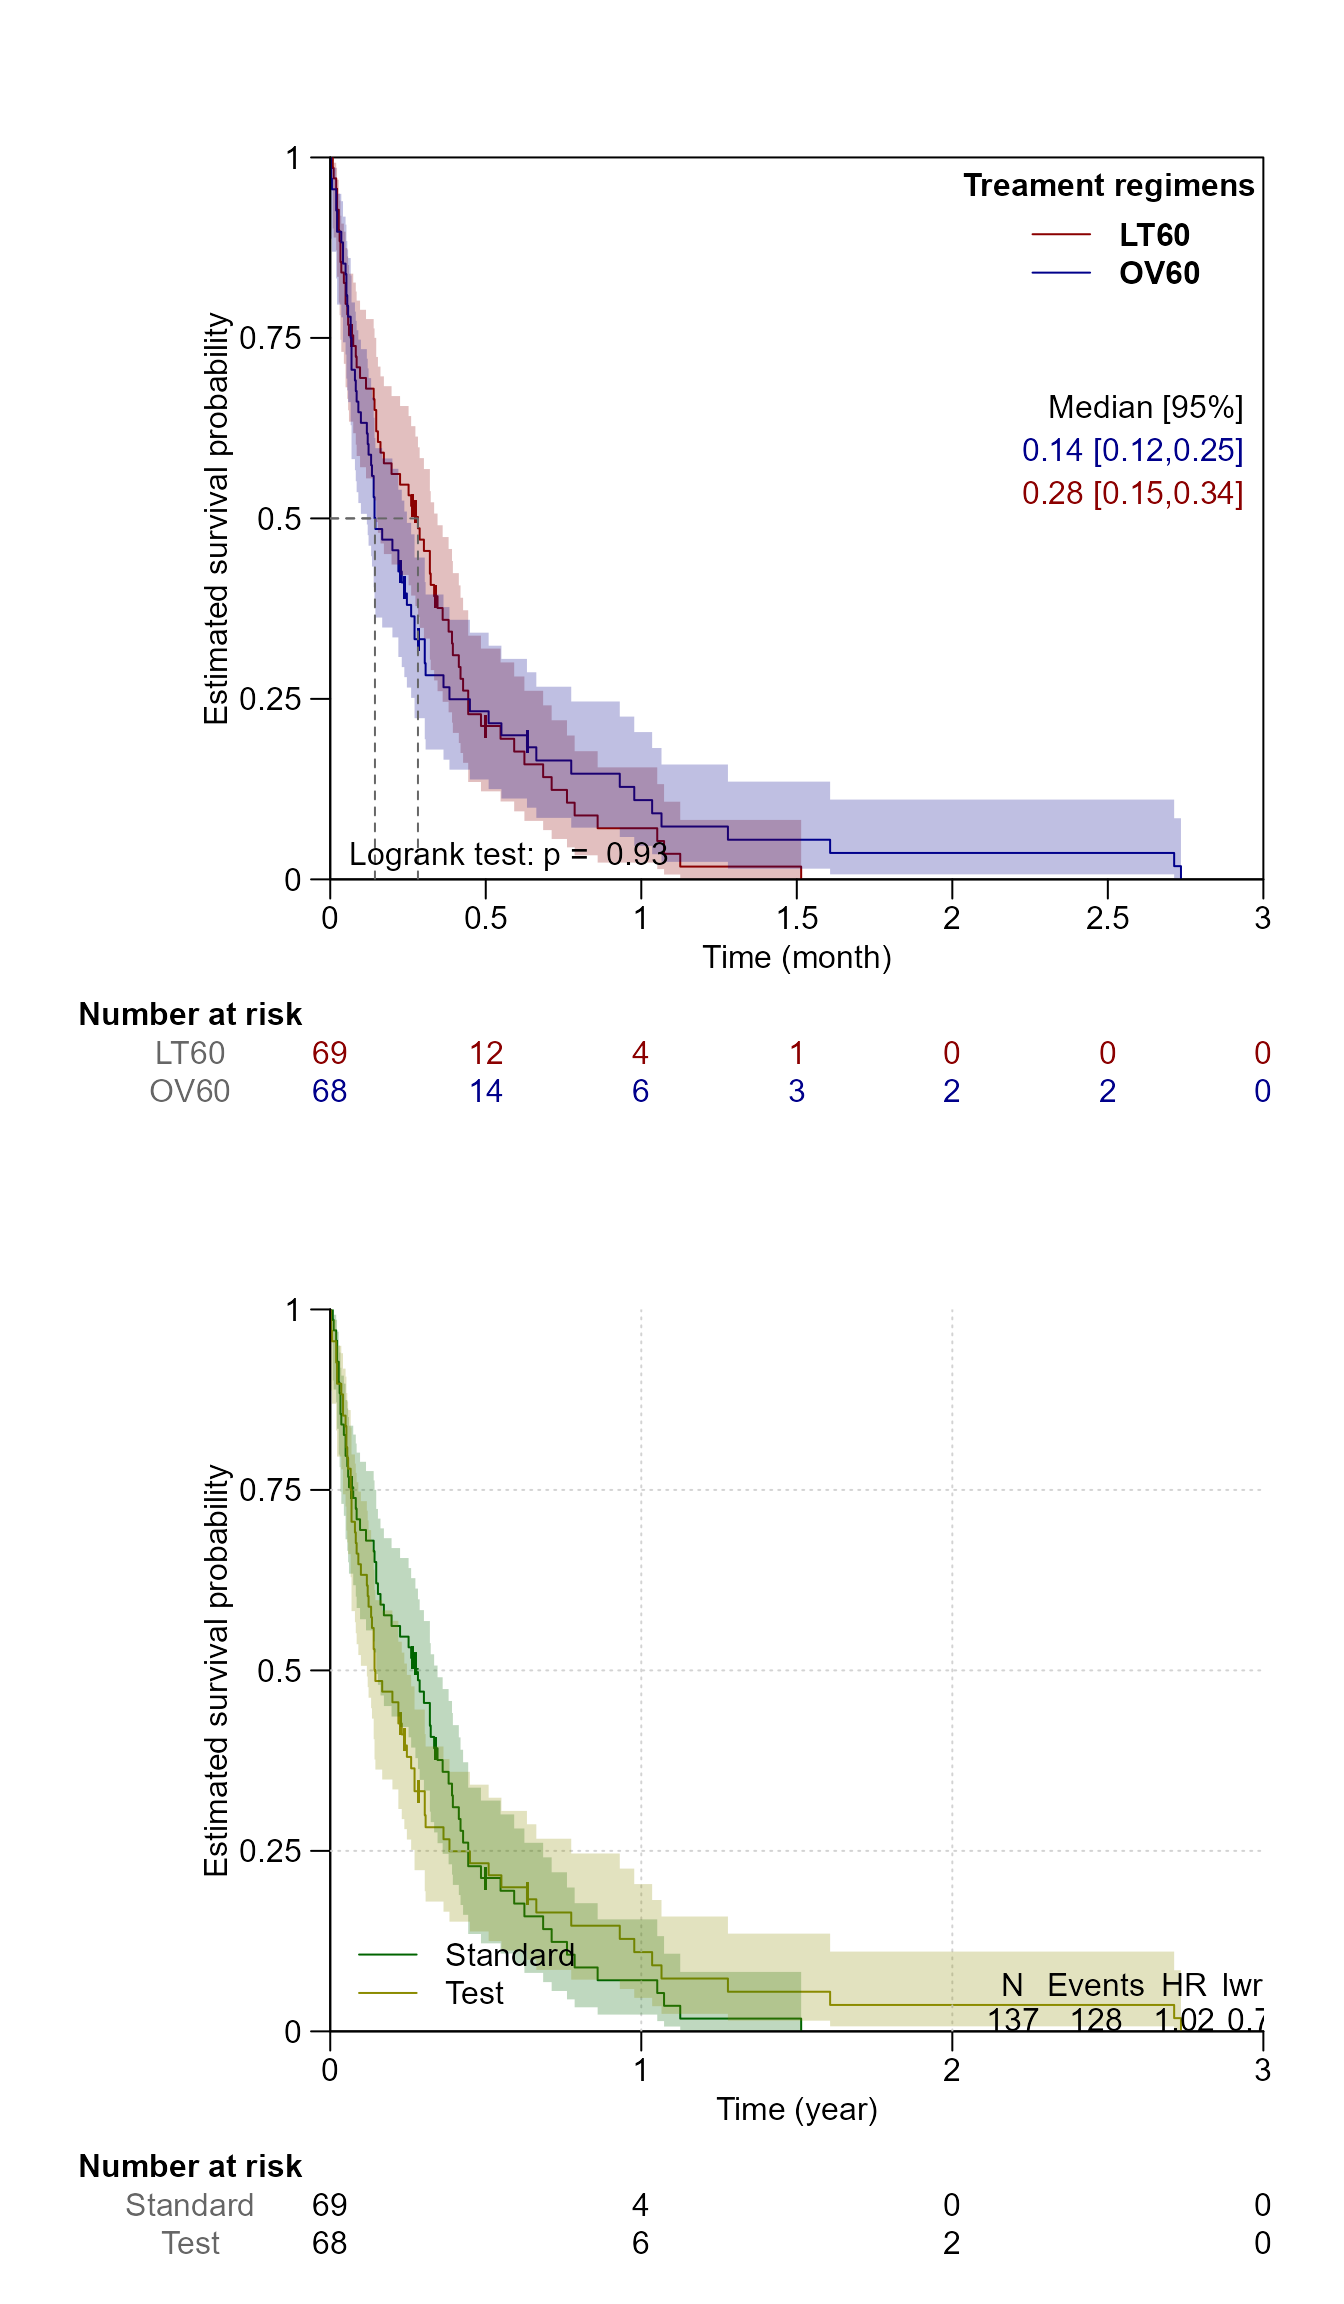
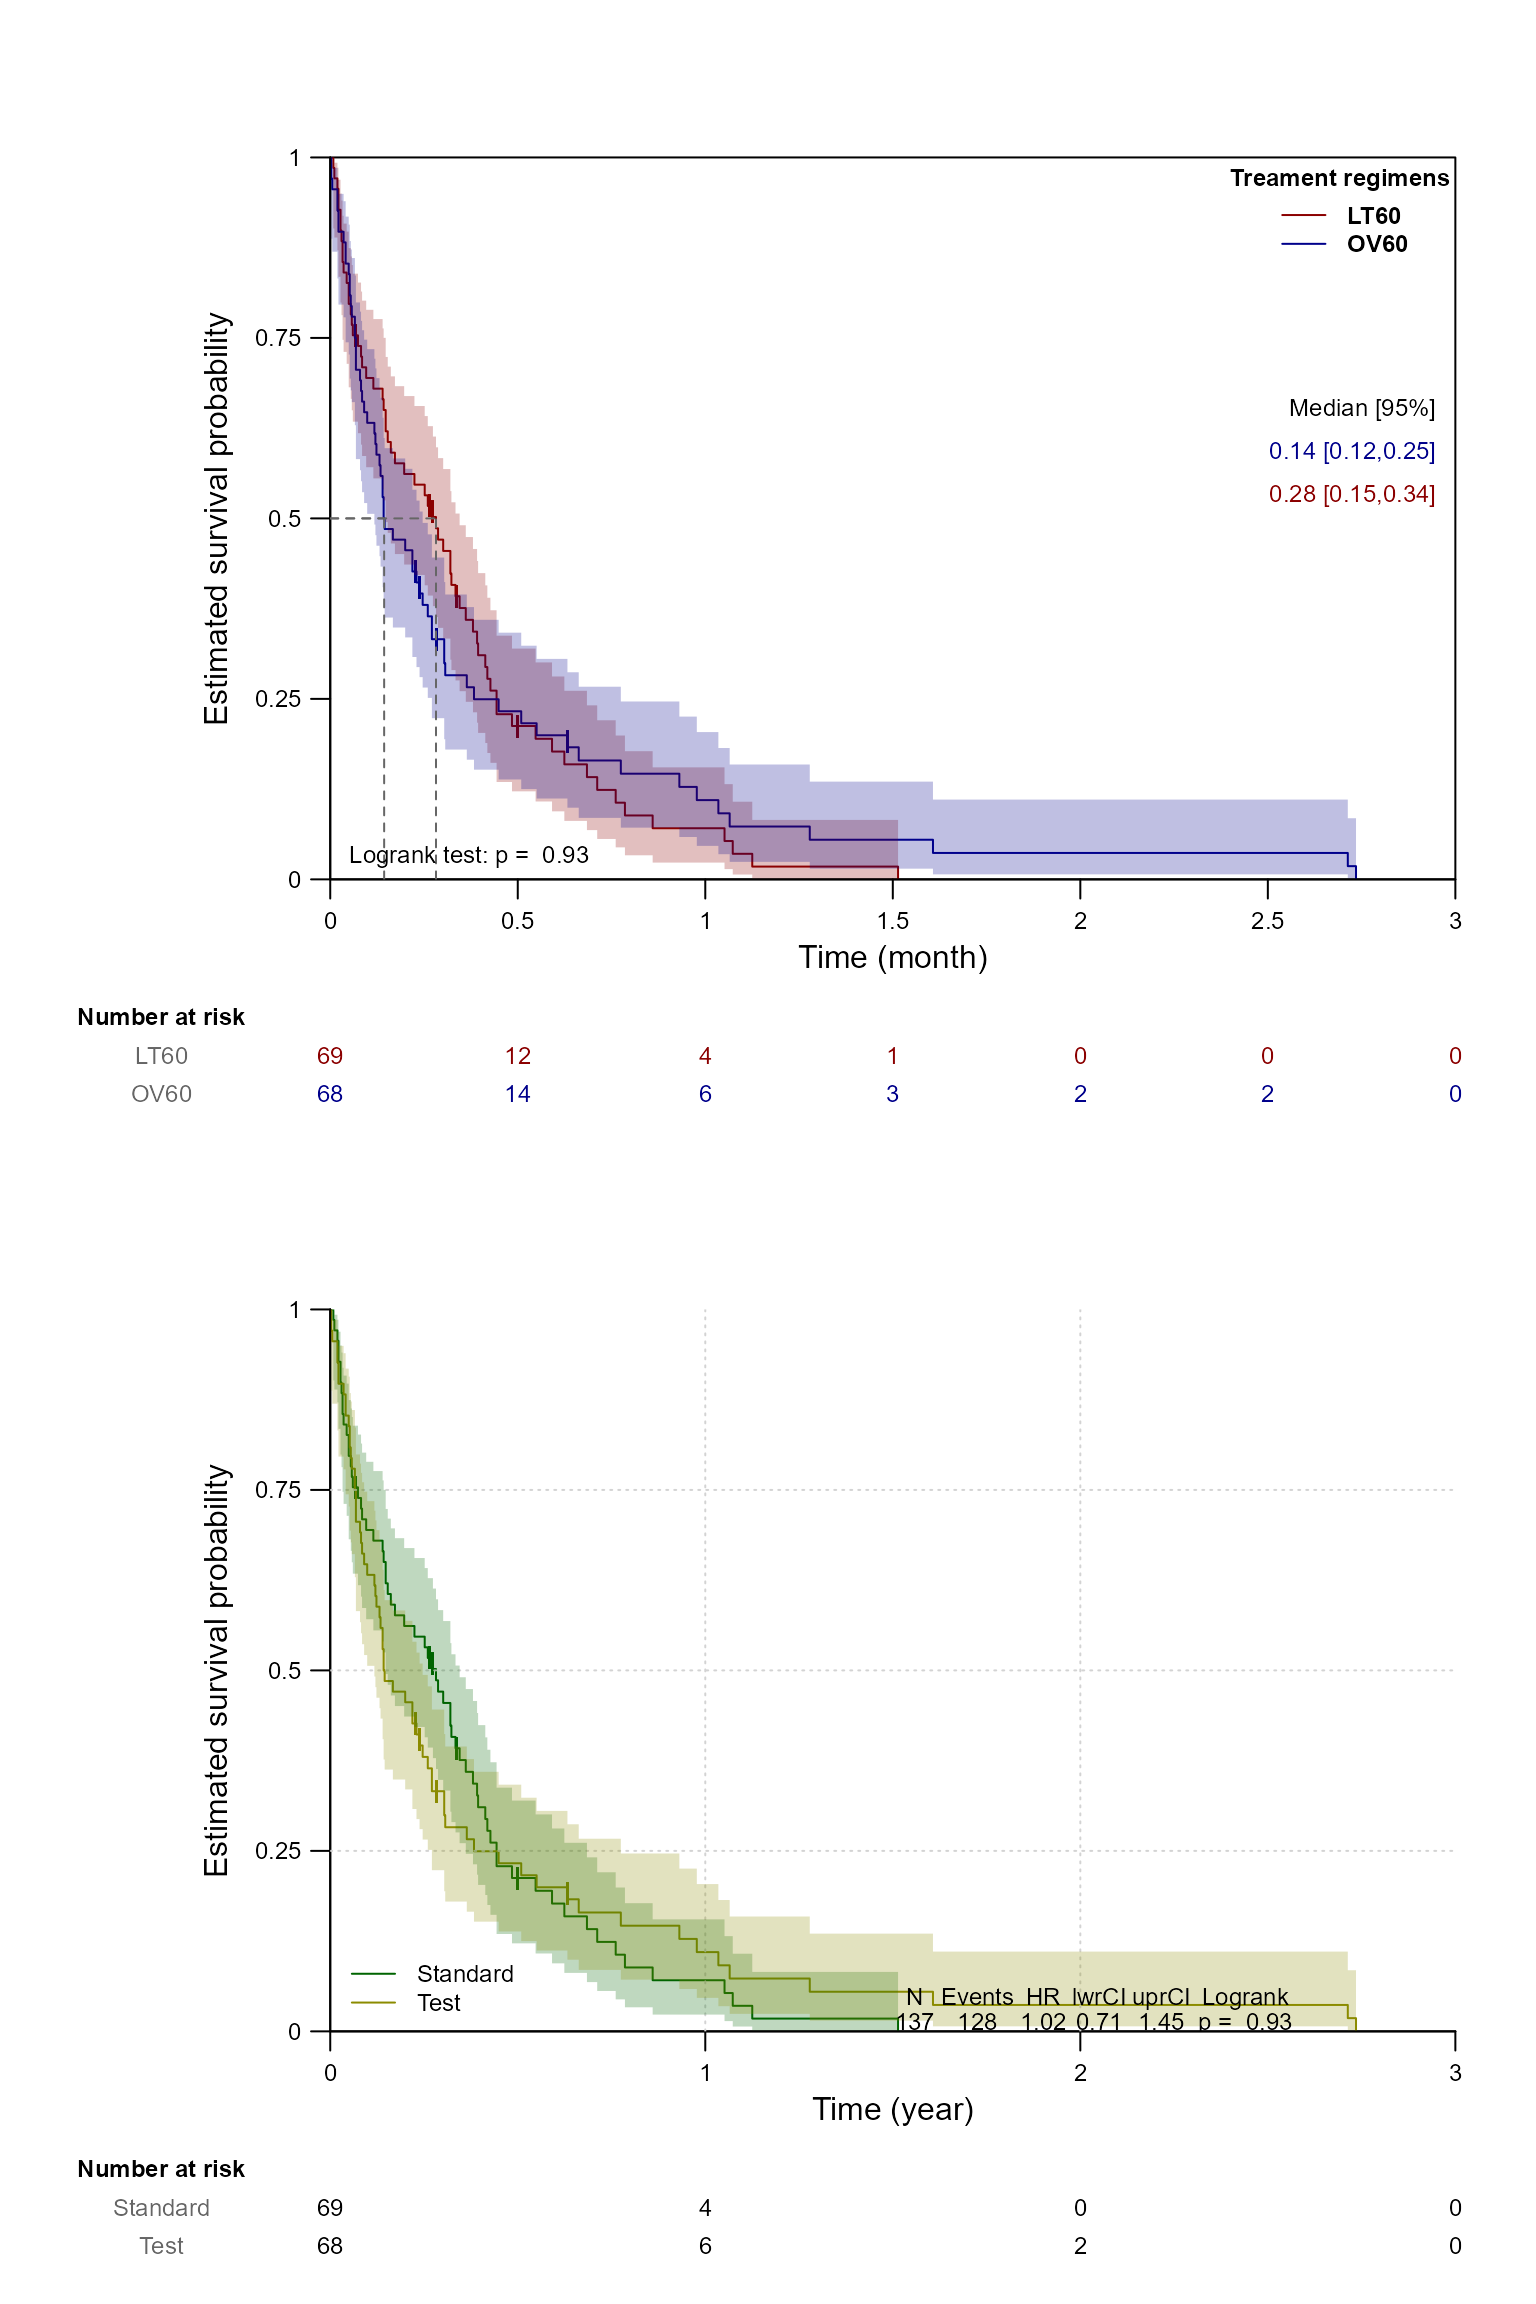
gitHub pages

diff --git a/docs/articles/surv.plot.html b/docs/articles/surv.plot.html
@@ -310,10 +310,11 @@ regression using <code>summary(coxph{survival})</code>.</p>
 </h3>
 <div class="sourceCode" id="cb15"><pre class="downlit sourceCode r">
 <code class="sourceCode R"><span><span class="fu"><a href="../reference/surv.plot.html">surv.plot</a></span><span class="op">(</span><span class="va">veteran_trt_fit_yr</span>,</span>
+<span>          cex <span class="op">=</span> <span class="fl">0.8</span>,</span>
 <span>          legend.position <span class="op">=</span> <span class="st">"right"</span>,</span>
 <span>          stat <span class="op">=</span> <span class="st">"coxmodel"</span>,</span>
 <span>          stat.position <span class="op">=</span> <span class="st">"topright"</span><span class="op">)</span></span></code></pre></div>
-<p><img src="surv.plot_files/figure-html/stat3-1.png" width="672" style="display: block; margin: auto;"></p>
+<p><img src="surv.plot_files/figure-html/stat3-1.png" width="768" style="display: block; margin: auto;"></p>
 </div>
 <div class="section level3">
 <h3 id="modify-stat-position-colour-text-size-and-text-font">Modify stat position, colour, text size, and text font<a class="anchor" aria-label="anchor" href="#modify-stat-position-colour-text-size-and-text-font"></a>
@@ -430,6 +431,7 @@ different time points thought the study.</p>
 <span><span class="co"># Plot 1</span></span>
 <span><span class="fu"><a href="../reference/surv.plot.html">surv.plot</a></span><span class="op">(</span>fit <span class="op">=</span> <span class="va">veteran_trt_fit_yr</span>,</span>
 <span>          bty <span class="op">=</span> <span class="st">'o'</span>,</span>
+<span>          cex <span class="op">=</span> <span class="fl">0.75</span>,</span>
 <span>          legend.title <span class="op">=</span> <span class="st">"Treament regimens"</span>,</span>
 <span>          legend.name <span class="op">=</span> <span class="fu"><a href="https://rdrr.io/r/base/c.html" class="external-link">c</a></span><span class="op">(</span><span class="st">"LT60"</span>,<span class="st">"OV60"</span><span class="op">)</span>,</span>
 <span>          legend.text.font <span class="op">=</span> <span class="fl">2</span>,</span>
@@ -444,13 +446,14 @@ different time points thought the study.</p>
 <span><span class="co"># Plot 2</span></span>
 <span><span class="fu"><a href="../reference/surv.plot.html">surv.plot</a></span><span class="op">(</span>fit <span class="op">=</span> <span class="va">veteran_trt_fit_yr</span>,</span>
 <span>          grid <span class="op">=</span><span class="cn">TRUE</span>,</span>
+<span>          cex <span class="op">=</span> <span class="fl">0.75</span>,</span>
 <span>          col <span class="op">=</span> <span class="fu"><a href="https://rdrr.io/r/base/c.html" class="external-link">c</a></span><span class="op">(</span><span class="st">"darkgreen"</span>,<span class="st">"yellow4"</span><span class="op">)</span>,</span>
 <span>          xlab <span class="op">=</span> <span class="st">"Time (year)"</span>,</span>
 <span>          xlim <span class="op">=</span> <span class="fu"><a href="https://rdrr.io/r/base/seq.html" class="external-link">seq</a></span><span class="op">(</span><span class="fl">0</span>,<span class="fl">3</span>, by <span class="op">=</span> <span class="fl">1</span><span class="op">)</span>,</span>
 <span>          legend.position <span class="op">=</span> <span class="st">"bottomleft"</span>,</span>
 <span>          stat <span class="op">=</span> <span class="st">"coxmodel"</span>,</span>
 <span>          stat.position <span class="op">=</span> <span class="st">"bottomright"</span><span class="op">)</span></span></code></pre></div>
-<p><img src="surv.plot_files/figure-html/plots2-1.png" width="672" style="display: block; margin: auto;"></p>
+<p><img src="surv.plot_files/figure-html/plots2-1.png" width="768" style="display: block; margin: auto;"></p>
 <div class="sourceCode" id="cb25"><pre class="downlit sourceCode r">
 <code class="sourceCode R"><span><span class="fu"><a href="https://rdrr.io/r/graphics/par.html" class="external-link">par</a></span><span class="op">(</span>mfrow<span class="op">=</span><span class="fu"><a href="https://rdrr.io/r/base/c.html" class="external-link">c</a></span><span class="op">(</span><span class="fl">1</span>,<span class="fl">1</span><span class="op">)</span><span class="op">)</span></span></code></pre></div>
 </div>

diff --git a/docs/index.html b/docs/index.html
@@ -109,7 +109,6 @@
 <div class="sourceCode" id="cb2"><pre class="downlit sourceCode r">
 <code class="sourceCode R"><span><span class="kw"><a href="https://rdrr.io/r/base/library.html" class="external-link">library</a></span><span class="op">(</span><span class="va"><a href="https://sakk-statistics.github.io/survSAKK/">survSAKK</a></span><span class="op">)</span></span>
 <span><span class="kw"><a href="https://rdrr.io/r/base/library.html" class="external-link">library</a></span><span class="op">(</span><span class="va"><a href="https://github.com/therneau/survival" class="external-link">survival</a></span><span class="op">)</span></span>
-<span><span class="co">#&gt; Warning: Paket 'survival' wurde unter R Version 4.3.2 erstellt</span></span>
 <span></span>
 <span><span class="va">lung_fit</span> <span class="op">&lt;-</span> <span class="fu"><a href="https://rdrr.io/pkg/survival/man/survfit.html" class="external-link">survfit</a></span><span class="op">(</span><span class="fu"><a href="https://rdrr.io/pkg/survival/man/Surv.html" class="external-link">Surv</a></span><span class="op">(</span><span class="op">(</span><span class="va">time</span><span class="op">/</span><span class="fl">365.25</span><span class="op">)</span>, <span class="va">status</span><span class="op">)</span> <span class="op">~</span> <span class="va">sex</span>, data <span class="op">=</span> <span class="va">lung</span><span class="op">)</span></span>
 <span></span>
